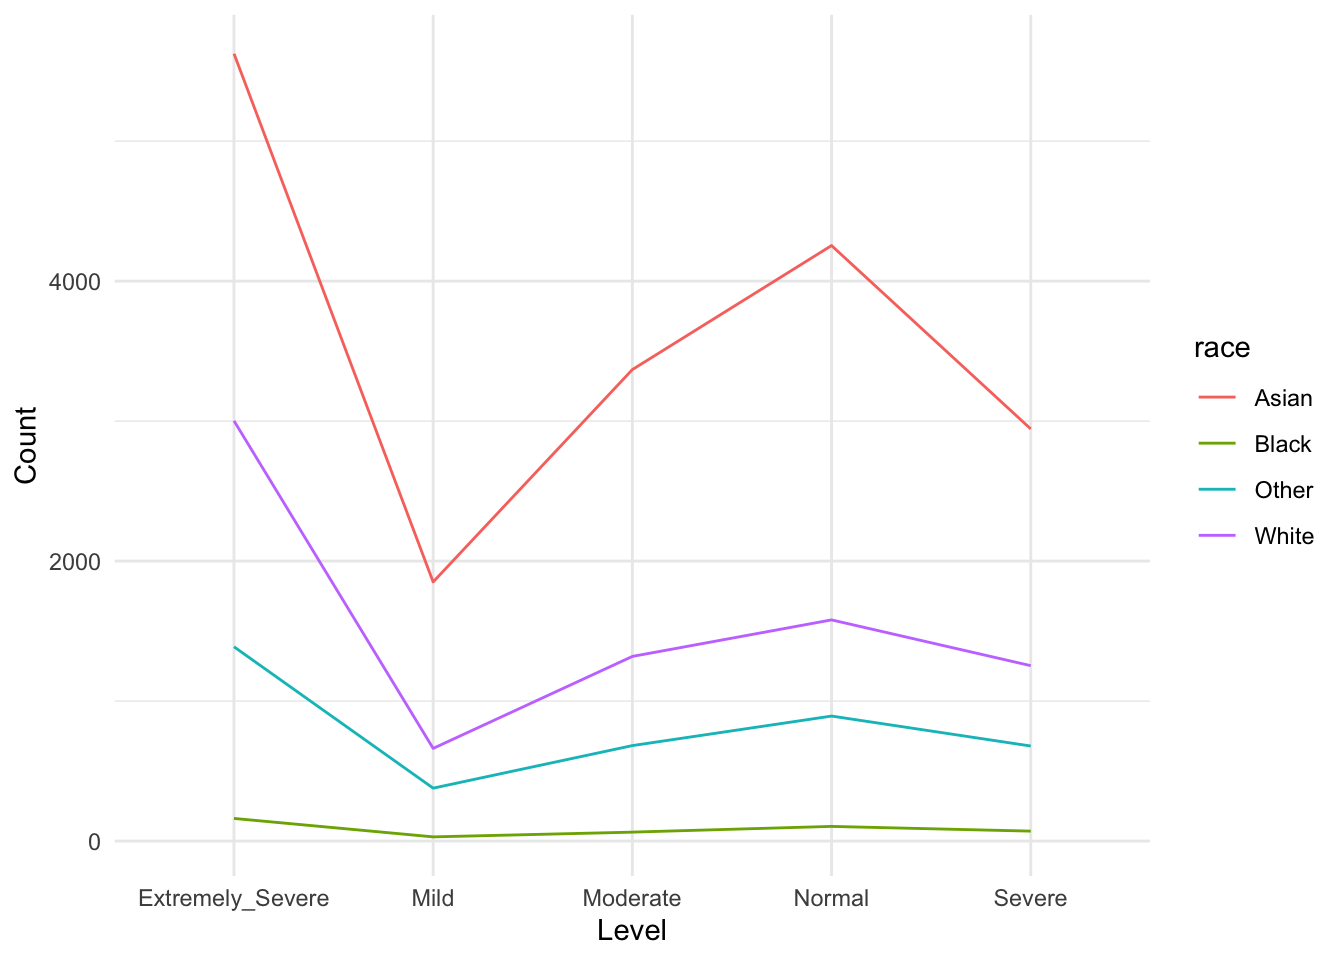
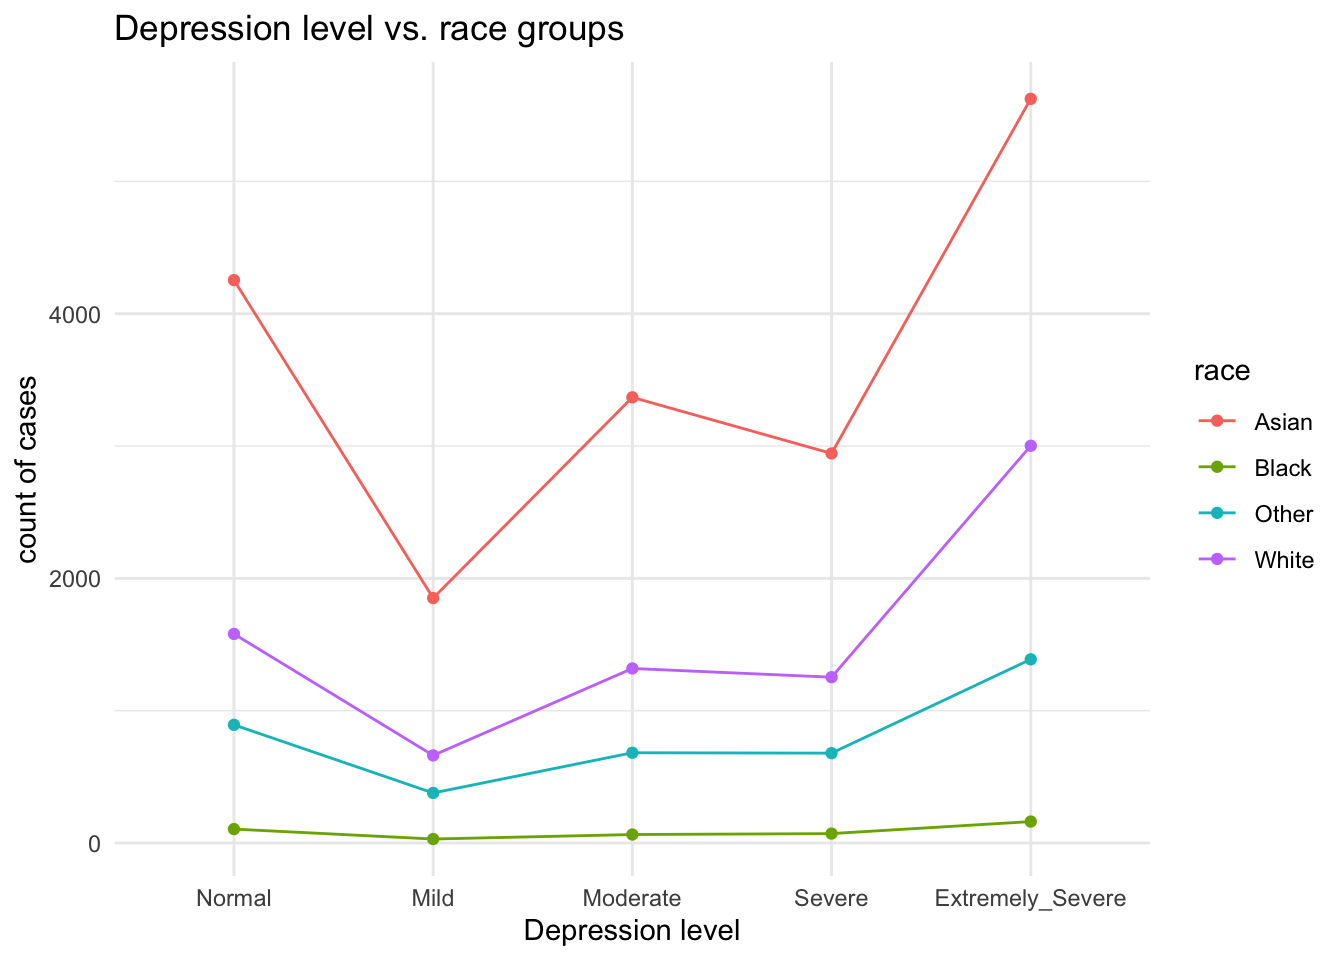
plot updated + chi-squared test 2

diff --git a/eda.html b/eda.html
@@ -287,7 +287,7 @@ ggplot(dass_new, aes(x=age)) +
                   fill=&quot;#FF6666&quot;) </code></pre>
 <p><img src="eda_files/figure-html/unnamed-chunk-1-1.png" width="672" /></p>
 <div id="plot-depression-level-vs.-age-groups" class="section level1">
-<h1>Plot: depression level vs. age groups</h1>
+<h1>Plot: Depression Level vs. Age groups</h1>
 <pre class="r"><code>dass_new|&gt;
   # form age groups
   mutate(age = case_when(age &lt;= 18 ~ &quot;teenage&quot;, 
@@ -304,14 +304,20 @@ ggplot(dass_new, aes(x=age)) +
     Normal:Extremely_Severe,
     names_to = &quot;Level&quot;,
     values_to = &quot;Count&quot;)|&gt;
+  mutate(Level = factor(Level, levels = unique(Level)))|&gt;
   ggplot(aes(x = Level, y = Count, group = age, color = age)) +
   geom_line()+
-  theme_minimal()</code></pre>
+  geom_point()+
+  theme_minimal()+
+  labs(x = &quot;Depression level&quot;, 
+       y = &quot;count of cases&quot;, 
+       title = &quot;Depression level vs. age groups&quot;)</code></pre>
 <p><img src="eda_files/figure-html/unnamed-chunk-2-1.png" width="672" /></p>
 </div>
-<div id="plot-depression-level-vs.-race-groups" class="section level1">
-<h1>Plot: depression level vs. race groups</h1>
+<div id="plots-depression-level-vs.-race-groups" class="section level1">
+<h1>Plots: Depression Level vs. Race groups</h1>
 <pre class="r"><code>dass_new|&gt;
+  # form new race groups
   mutate(race = case_when(race == &quot;Native American&quot; ~ &quot;Other&quot;,
                           race==&quot;Arab&quot;~ &quot;Other&quot;, 
                           race == &quot;Indigenous Australian&quot; ~ &quot;Other&quot;,
@@ -329,17 +335,23 @@ ggplot(dass_new, aes(x=age)) +
     Normal:Extremely_Severe,
     names_to = &quot;Level&quot;,
     values_to = &quot;Count&quot;)|&gt;
+  mutate(Level = factor(Level, levels = unique(Level)))|&gt;
   ggplot(aes(x = Level, y = Count, group = race, color = race)) +
+  geom_point()+
   geom_line()+
-  theme_minimal()</code></pre>
+  theme_minimal()+
+  labs(x = &quot;Depression level&quot;, 
+       y = &quot;count of cases&quot;, 
+       title = &quot;Depression level vs. race groups&quot;)</code></pre>
 <p><img src="eda_files/figure-html/unnamed-chunk-3-1.png" width="672" /></p>
 </div>
 <div id="chi-squared-test-1" class="section level1">
 <h1>Chi-squared Test 1</h1>
-<p>From the plot above, we observed that the distribution of depression
-level among different age groups follow a similar pattern. Thus, we
-would like to perform a chi-squared test to study if the distribution of
-depression levels among different age groups are the same.<br />
+<p>From the plot of depression level vs. age groups, we observed that
+the distribution of cases of different depression levels among different
+age groups follow a similar pattern. Thus, we would like to perform a
+chi-squared test to study if the distribution of depression levels among
+different age groups are the same.<br />
 </p>
 <p><span class="math inline">\(H_0\)</span>: The proportion in different
 depression levels among age groups are equal.<br />
@@ -393,6 +405,43 @@ distributions among different age groups and different depression levels
 are the same. Since the p-value is smaller than 0.05, the null
 hypothesis is rejected. We may conclude that age is associated with
 depression levels.</p>
+</div>
+<div id="chi-squared-test-2" class="section level1">
+<h1>Chi-squared Test 2</h1>
+<p>Similarly, we observed that the distribution of cases of different
+depression levels among different race groups follow a similar pattern
+from the plot of depression level vs. race groups. Thus, we would like
+to perform a chi-squared test to study if the distribution of depression
+levels among different race groups are the same.<br />
+</p>
+<p><span class="math inline">\(H_0\)</span>: The proportion in different
+depression levels among race groups are equal.<br />
+<span class="math inline">\(H_1\)</span>: Not all proportions are
+equal.</p>
+<pre class="r"><code>dass_chi &lt;- dass_new|&gt;
+  # form new race groups
+  mutate(race = case_when(race == &quot;Native American&quot; ~ &quot;Other&quot;,
+                          race==&quot;Arab&quot;~ &quot;Other&quot;, 
+                          race == &quot;Indigenous Australian&quot; ~ &quot;Other&quot;,
+                          race == &quot;Other&quot; ~ &quot;Other&quot;,
+                          race == &quot;Black&quot; ~ &quot;Black&quot;,
+                          race == &quot;White&quot; ~ &quot;White&quot;,
+                          race == &quot;Asian&quot; ~ &quot;Asian&quot;))
+# show result table to perform chi-squared test
+dass_chi|&gt;
+  group_by(race)|&gt;
+  summarise(Normal = sum(depression_level==&quot;Normal&quot;),
+            Mild = sum(depression_level==&quot;Mild&quot;),
+            Moderate = sum(depression_level==&quot;Moderate&quot;),
+            Severe = sum(depression_level==&quot;Severe&quot;),
+            Extremely_Severe = sum(depression_level==&quot;Extremely severe&quot;))</code></pre>
+<pre><code>## # A tibble: 4 × 6
+##   race  Normal  Mild Moderate Severe Extremely_Severe
+##   &lt;chr&gt;  &lt;int&gt; &lt;int&gt;    &lt;int&gt;  &lt;int&gt;            &lt;int&gt;
+## 1 Asian   4254  1851     3368   2944             5624
+## 2 Black    105    30       64     71              162
+## 3 Other    893   378      682    679             1388
+## 4 White   1580   662     1319   1253             3002</code></pre>
 </div>
 
 
